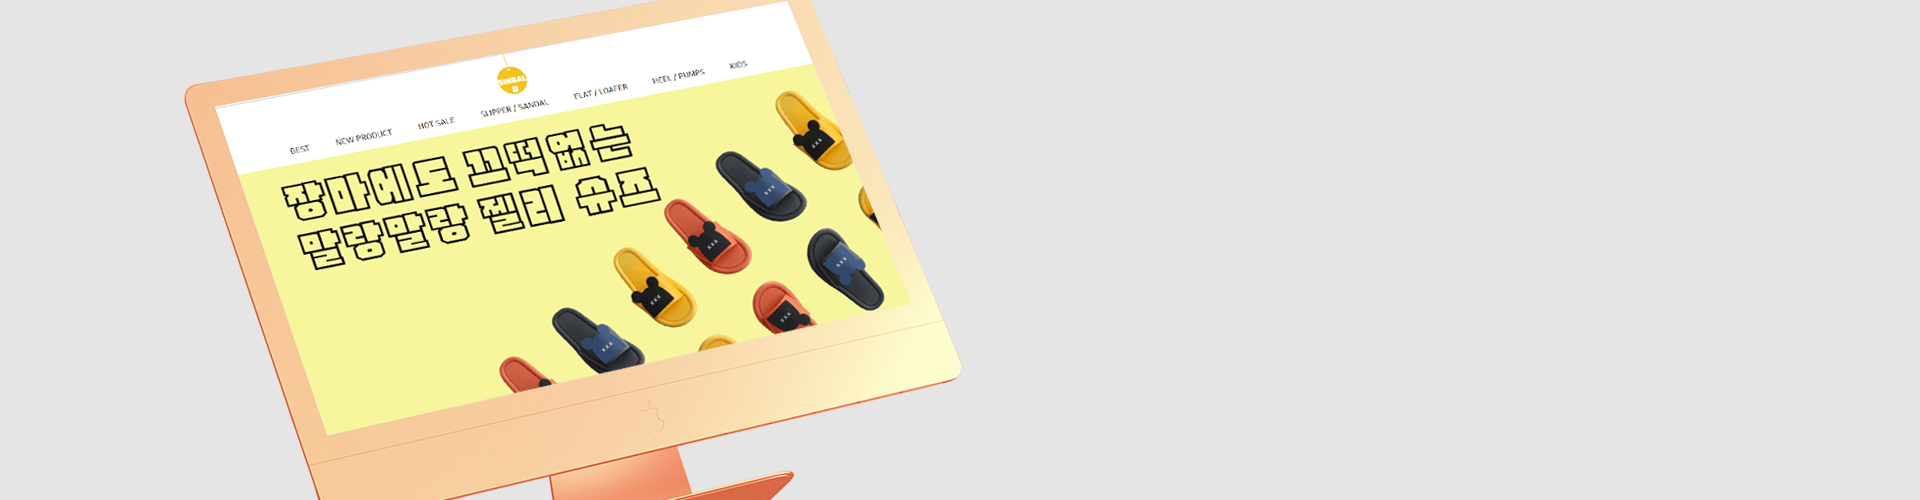
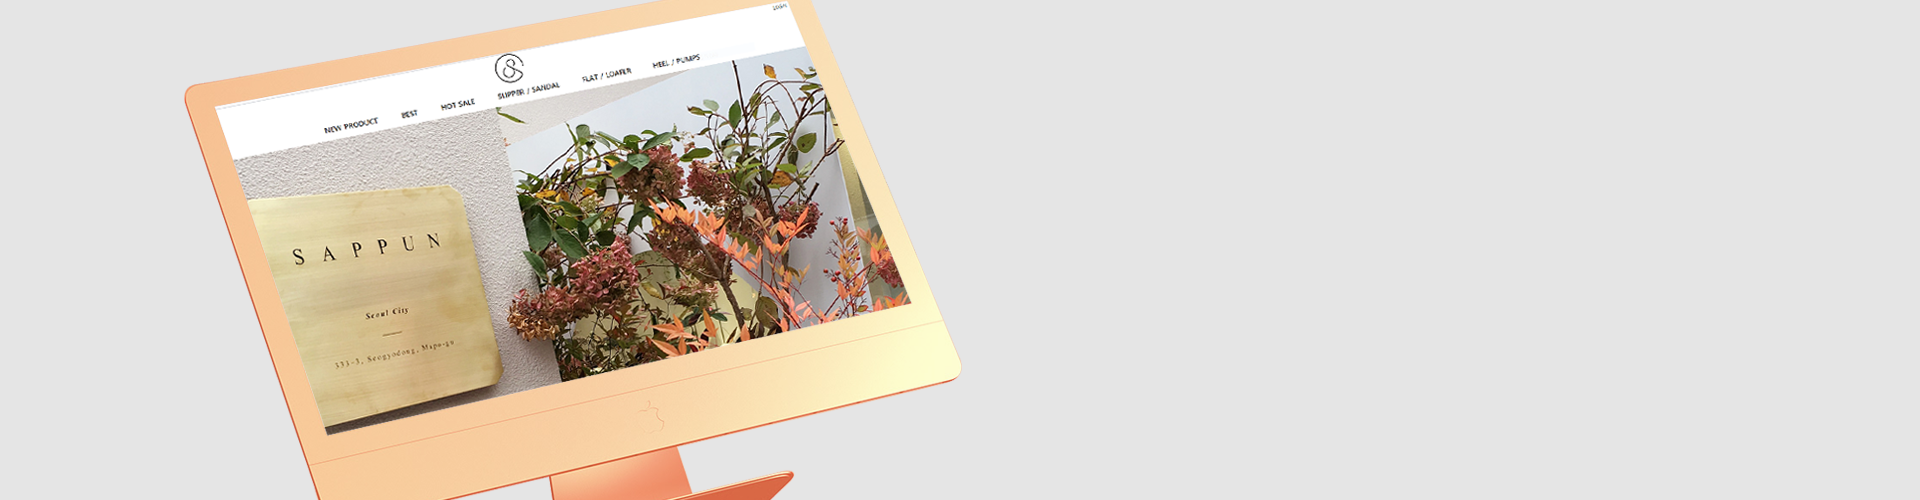
Add files via upload

Changed region(s): [[0.125, 0.09, 0.5, 0.87]]

diff --git a/index.html b/index.html
@@ -57,12 +57,12 @@
                     <div class="pfBox pfBox2">
                         <div class="imgBox imgBox2">박스</div>
                         <div class="pfTxt pfTxt2">
-                            <h4>SINBAL SHOP</h4>
+                            <h4>SAPPUN</h4>
                             <p>DESIGN</p>
                             <p>PUBLISHING</p>
                             <p>JAVASCRIPT</p>
                             <p>JQUERY</p>
-                            <p class="viewBtn"><a href="https://tjqlqkqh12.github.io/sinbal" target="_blank">SITE VIEW</a></p>
+                            <p class="viewBtn"><a href="https://tjqlqkqh12.github.io/sappun" target="_blank">SITE VIEW</a></p>
                         </div>
                     </div>
                 </div>
@@ -101,12 +101,11 @@
                 <!--04-->
                 
                 <!--05-->
-                <div class="section" id="section5">
+                <div class="section contact" id="section5">
                     <h1>contact</h1>
-                    <ul class="contact">
-                        <li>OPEN KAKAO<a href="https://open.kakao.com/o/sfu5eEsc" target="_blank"><img src="images/q.png" alt="qr"></a></li>
-                        <li>E-MAIL<span>090647766666@naver.com</span></li>
-                    </ul>
+                    <p>OPEN KAKAO<a href="https://open.kakao.com/o/sfu5eEsc" target="_blank"><img src="images/q.png" alt="qr"></a></p>
+                    <p>E-MAIL<span>090647766666@naver.com</span></p>
+                    <p class="c_b">해당 사이트는 상업적 용도가 아닌 개인 포트폴리오 목적으로 제작되었습니다.</p>
 				</div>
                 <!--05-->
 			</div>

diff --git a/css/style.css b/css/style.css
@@ -142,11 +142,11 @@
 
 
 
-#section5{
+.contact{
     background:rgba(0,0,0,0.2);
     text-align:center;
 }
-#section5 h1{
+.contact h1{
     font-size:70px;
     padding:100px 0;
 }
@@ -154,17 +154,20 @@
     text-align:center;
     font-size:40px;
 }
-.contact li{
+.contact p{
     padding:15px;
 }
-.contact li span{
+.contact span{
     margin-left:55px;
 }
-.contact li a img{
+.contact a img{
     width:120px;
     margin-left:250px;
 }
-
+.c_b{
+    font-size:18px;
+    margin-top:100px;
+}
 
 
 
